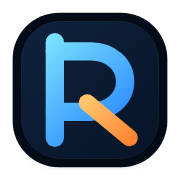
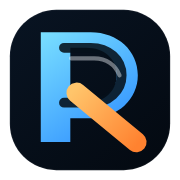
Refine Ryxen brand mark and hero presentation

diff --git a/src/hub/styles.css b/src/hub/styles.css
@@ -93,10 +93,10 @@ textarea {
 
 .hub-wordmark {
   display: block;
-  width: min(100%, 320px);
+  width: min(100%, 272px);
   height: auto;
   aspect-ratio: 47 / 12;
-  margin-bottom: 18px;
+  margin-bottom: 14px;
 }
 
 .hub-kicker,
@@ -107,7 +107,7 @@ textarea {
   display: inline-flex;
   align-items: center;
   gap: 8px;
-  min-height: 32px;
+  min-height: 30px;
   padding: 0 12px;
   border-radius: 999px;
   border: 1px solid var(--hub-border);
@@ -181,7 +181,7 @@ textarea {
   display: flex;
   flex-wrap: wrap;
   gap: 12px;
-  margin-top: 26px;
+  margin-top: 22px;
   min-height: 52px;
   align-items: flex-start;
 }
@@ -202,9 +202,10 @@ textarea {
 
 .hub-primaryAction,
 .hub-cardLink-primary {
-  background: var(--hub-accent);
-  color: #eff6ff;
-  border-color: rgba(59, 130, 246, 0.46);
+  background: linear-gradient(135deg, #1f4fa3, #2967d5 58%, #428eff);
+  color: #f7fbff;
+  border-color: rgba(81, 148, 255, 0.36);
+  box-shadow: inset 0 1px 0 rgba(255, 255, 255, 0.12), 0 14px 30px rgba(26, 86, 183, 0.22);
 }
 
 .hub-secondaryAction,
@@ -218,6 +219,11 @@ textarea {
 .hub-cardLink:hover {
   transform: translateY(-1px);
   border-color: var(--hub-border-strong);
+}
+
+.hub-secondaryAction:hover,
+.hub-cardLink:hover {
+  background: rgba(255, 255, 255, 0.055);
 }
 
 .hub-meta {
